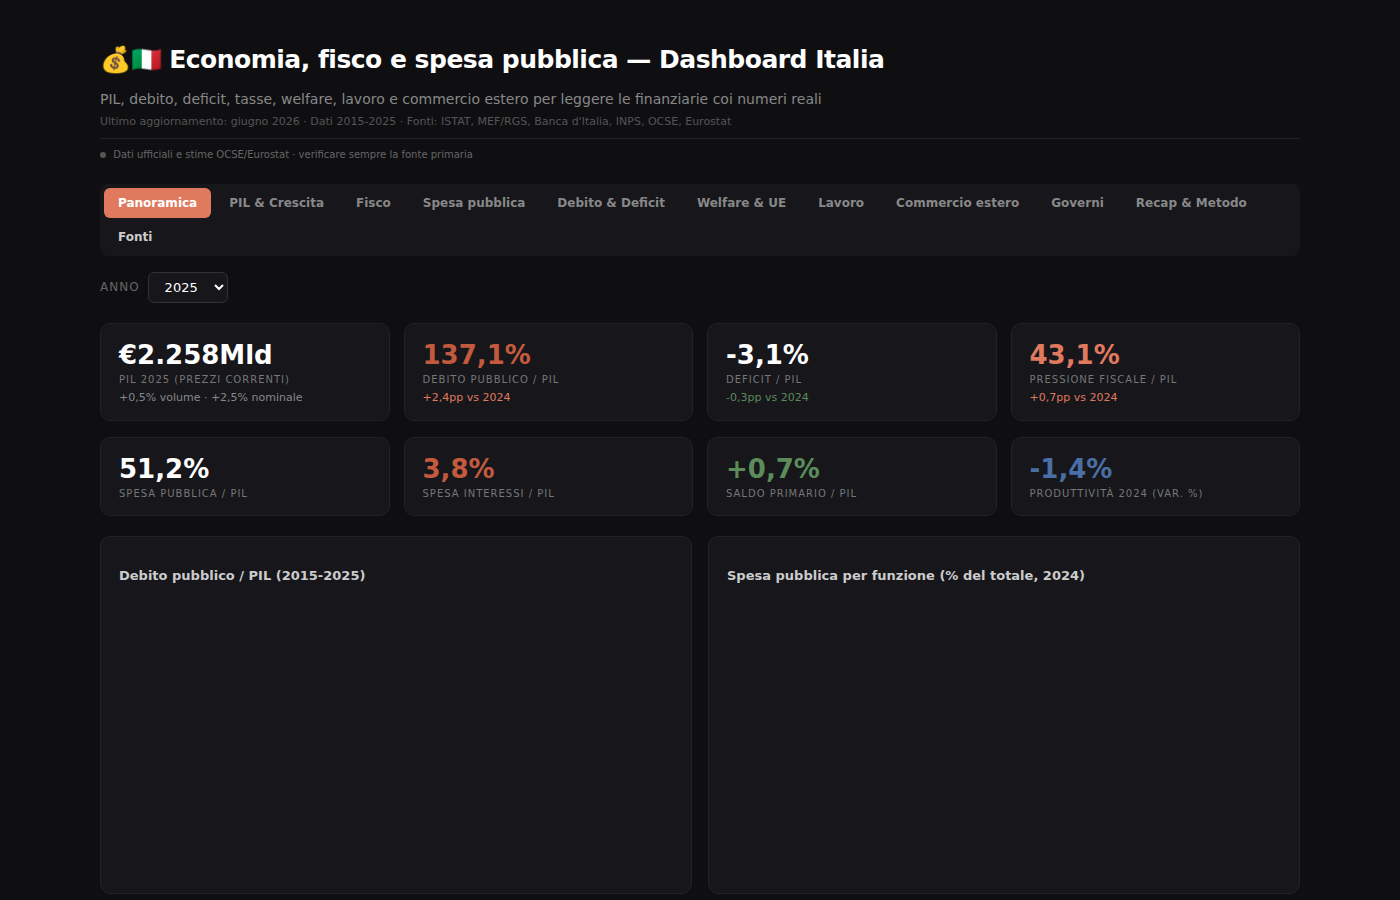
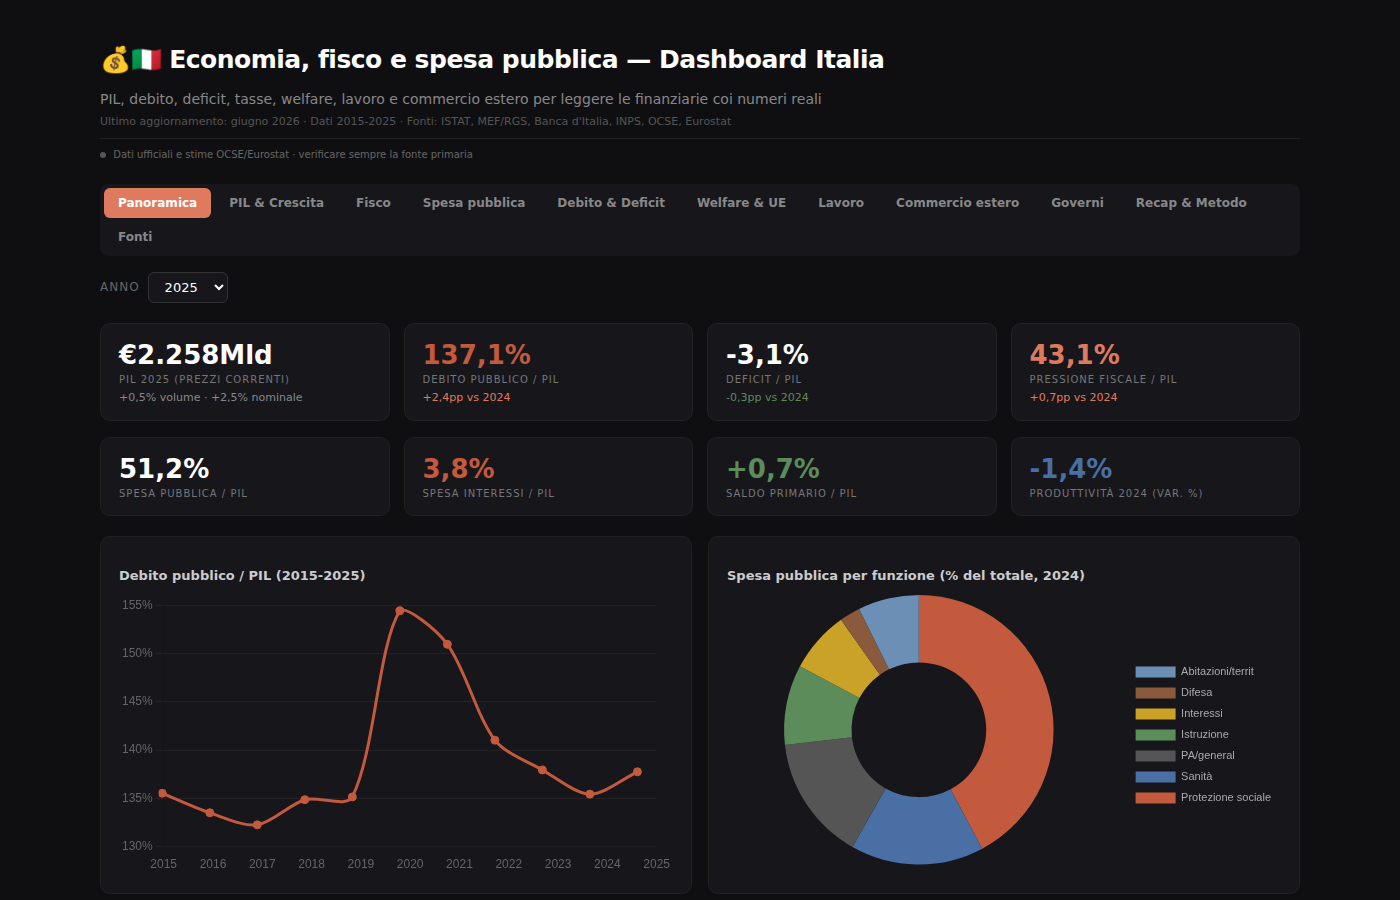
fix: virgole mancanti dopo conversione barre, ripristina funzionamento dashboard

diff --git a/index.html b/index.html
@@ -545,7 +545,7 @@ function renderTabCharts(tab){
         {label:'Germania',data:[1.5,2.7,1.0,3.2,-0.3,0.2],backgroundColor:grey,borderRadius:4},
         {label:'Francia',data:[1.1,2.4,1.8,6.8,0.7,0.8],backgroundColor:blue,borderRadius:4},
         {label:'Spagna',data:[3.8,3.0,2.0,5.5,2.7,3.0],backgroundColor:green,borderRadius:4}
-      ]}
+      ]},
       options:{responsive:true,maintainAspectRatio:false,plugins:{legend:{position:'top',labels:{color:'#aaa',font:{size:11}}}},scales:{y:{beginAtZero:true,ticks:{callback:v=>(v>0?'+':'')+v+'%'},grid:{color:gridColor}},x:{grid:{display:false}}}}
     });
     charts['produttivita'] = buildChart('chart-produttivita', {